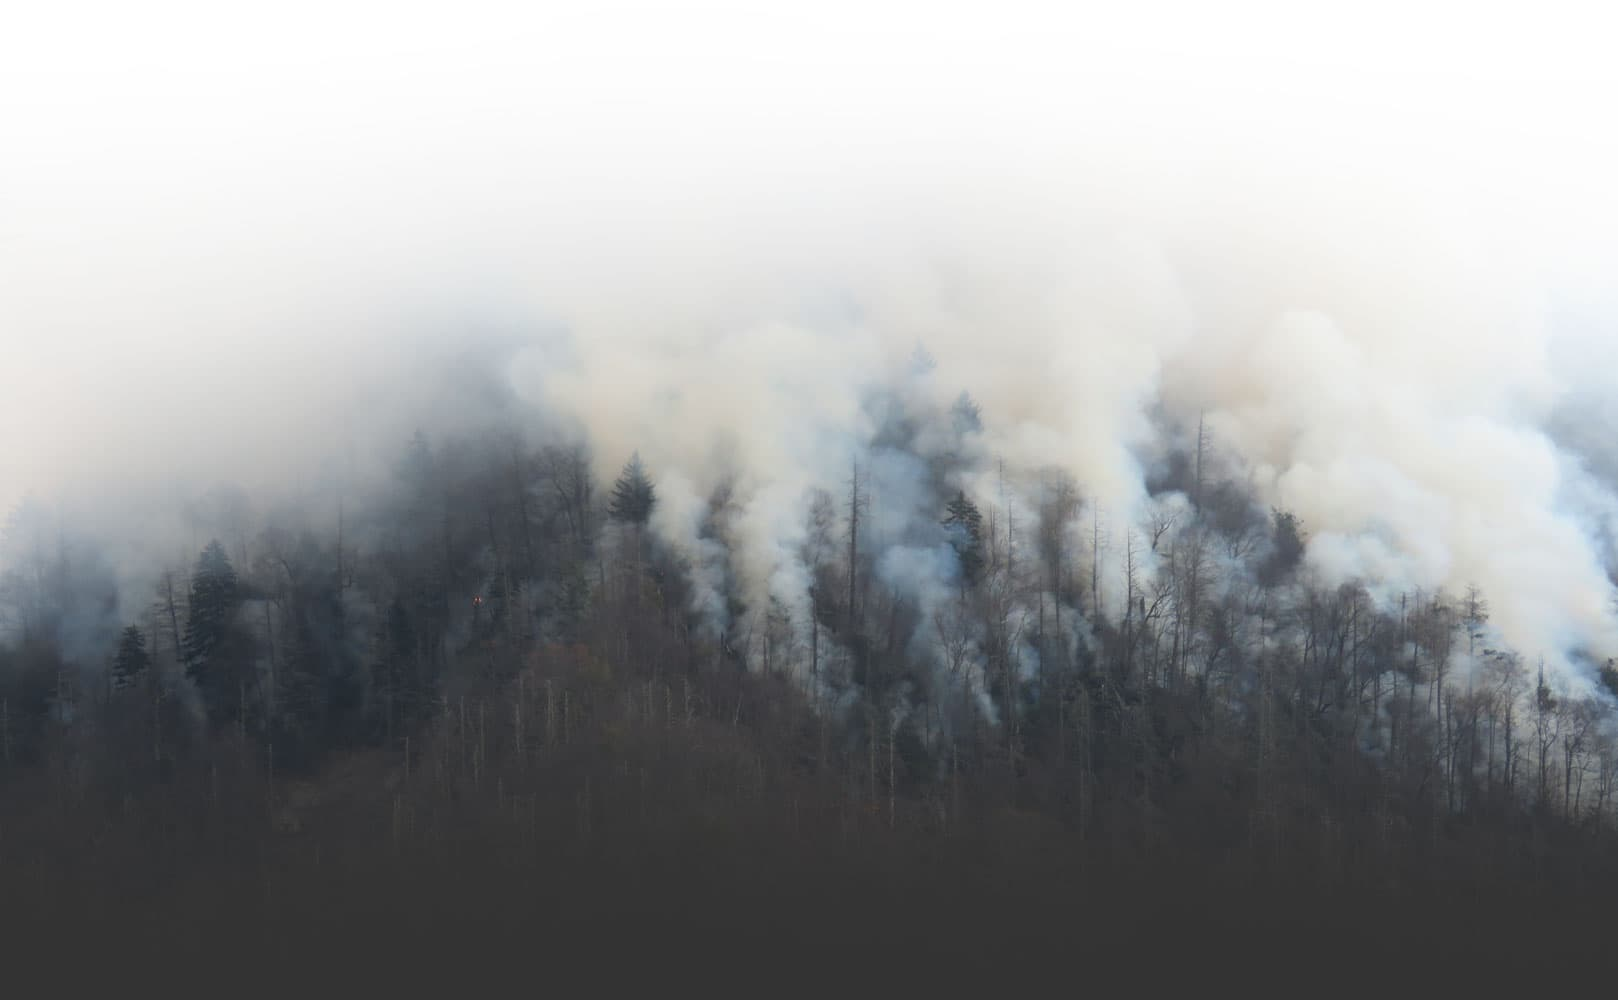
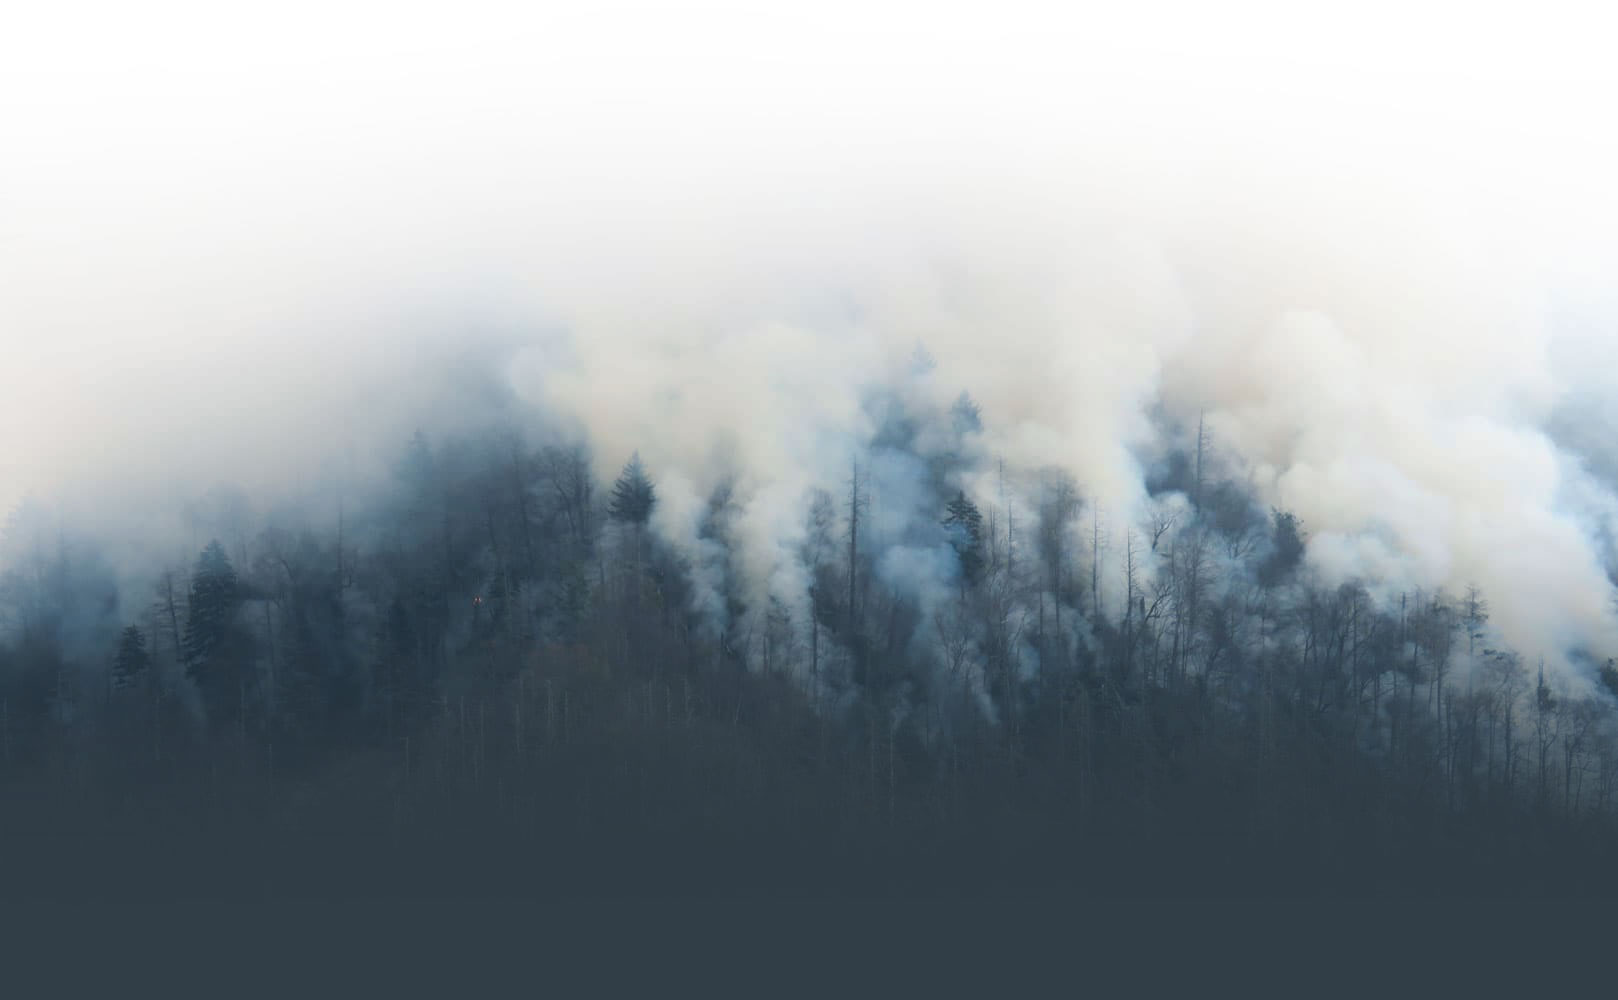
Update background.

Changed region(s): [[0.8344, 0.589, 1.0, 0.837], [0.5871, 0.651, 0.6489, 0.713], [0.4635, 0.651, 0.4944, 0.682]]

diff --git a/src/sass/layout/_layout.scss b/src/sass/layout/_layout.scss
@@ -14,7 +14,7 @@ body {
   -ms-font-feature-settings: "kern", "liga", "clig", "calt";
   -webkit-font-feature-settings: "kern", "liga", "clig", "calt";
   font-feature-settings: "kern", "liga", "clig", "calt";
-  background-color: #333;
+  background-color: $primary;
   background-image: url("../images/chimney-top-2-fire-background_25effa54.jpg");
   background-position: 0 0;
   background-size: 100%;
